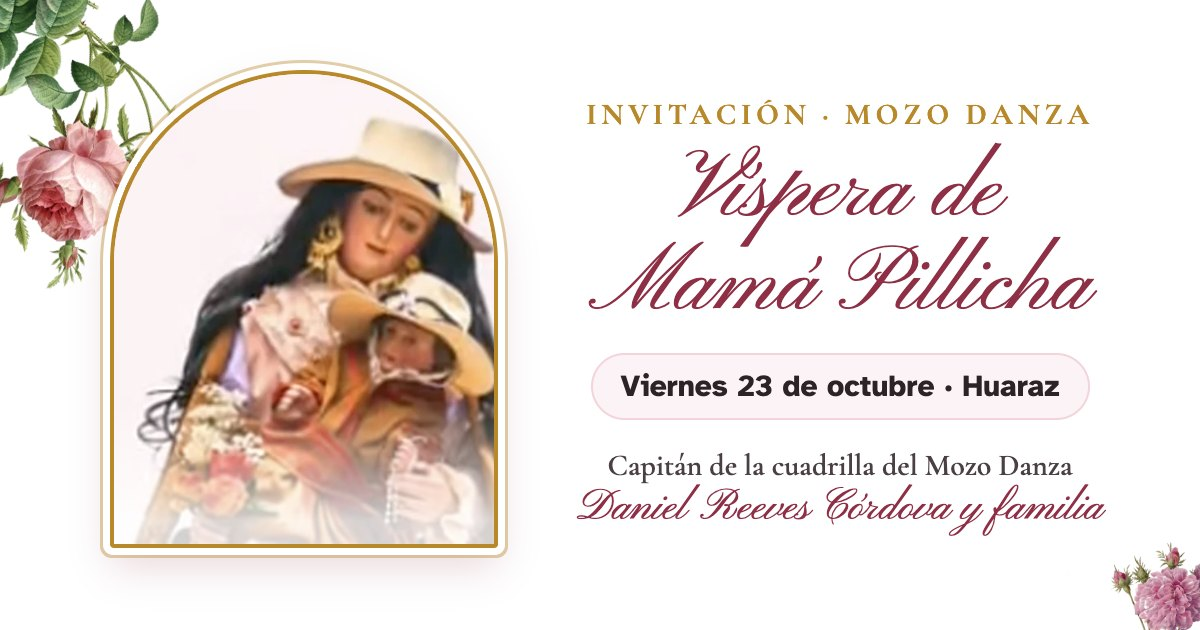
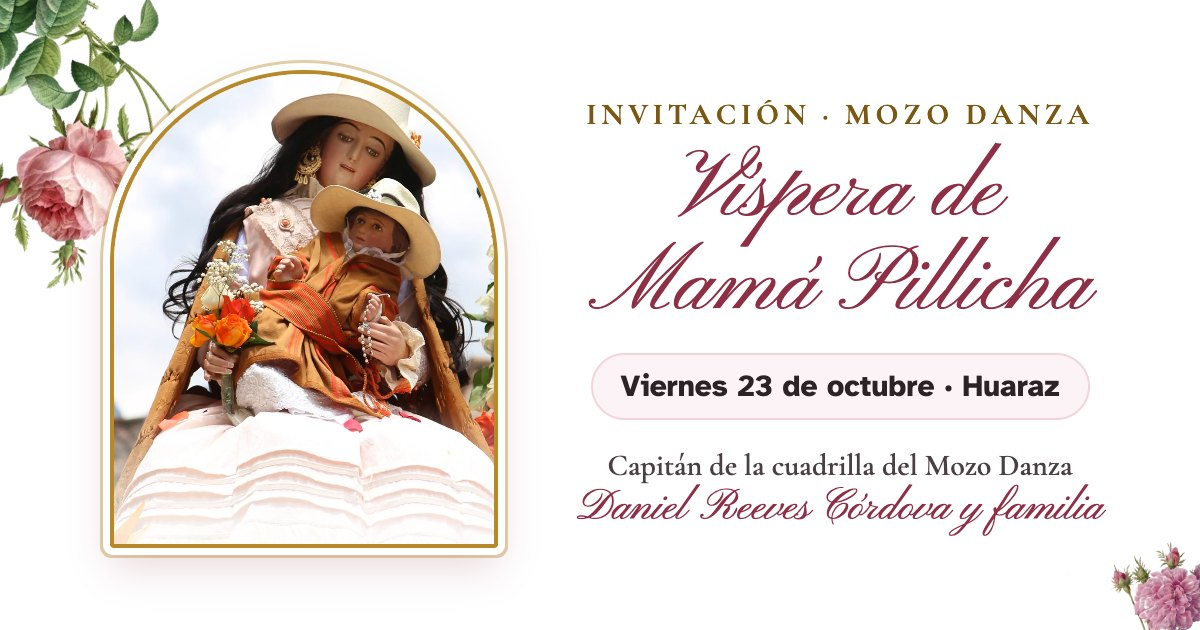
Foto oficial de la Virgen, música del Mozo Danza, contraste y flecha de lugares

Changed region(s): [[0.0925, 0.1508, 0.4317, 0.8746], [0.7092, 0.1508, 0.8942, 0.2111], [0.4933, 0.1508, 0.6783, 0.2111]]

diff --git a/styles.css b/styles.css
@@ -2,10 +2,11 @@
 :root {
   --bg: #ffffff;
   --ink: #2b2326;
-  --ink-soft: #564a4e;
+  --ink-soft: #463a3e;
   --wine: #8e2f45;
   --wine-dark: #6f2235;
   --gold: #b8892b;
+  --gold-ink: #7a5712;
   --rose: #f2d4da;
   --rose-soft: #fcf6f7;
   --wa: #1f8f4e;
@@ -71,13 +72,16 @@ a { color: var(--wine); }
   overflow: hidden; display: grid; place-items: center;
 }
 .seal img { width: 130%; max-width: none; }
-.env-kicker { font: 600 18px/1.3 var(--f-serif); letter-spacing: .2em; text-transform: uppercase; color: var(--gold); }
+.env-kicker { font: 700 18px/1.3 var(--f-serif); letter-spacing: .2em; text-transform: uppercase; color: var(--gold-ink); }
 .env-title { font: 400 48px/1.08 var(--f-script); color: var(--wine); margin: 10px 0 8px; }
 .env-sub { font: 600 21px/1.3 var(--f-serif); color: var(--ink-soft); margin-bottom: 26px; }
 body.is-open .envelope { opacity: 0; visibility: hidden; pointer-events: none; }
 body.is-open .env-rose--tl { transform: translate(-40%, -40%) rotate(130deg); opacity: 0; }
 body.is-open .env-rose--br { transform: translate(40%, 40%) rotate(10deg); opacity: 0; }
 body.is-open .env-card { transform: scale(.94) translateY(-10px); opacity: 0; }
+
+/* ---------- Música ---------- */
+.sc-hidden { position: fixed; left: 0; bottom: 0; width: 1px; height: 1px; overflow: hidden; opacity: 0; pointer-events: none; }
 
 /* ---------- Caras ---------- */
 .face { position: relative; min-height: 100svh; padding: 52px 16px 44px; display: flex; flex-direction: column; justify-content: center; overflow: hidden; }
@@ -100,11 +104,11 @@ body.skip .intro-el, body.skip .arc-text tspan, body.skip .dancer-wrap { transit
 
 .stage { position: relative; z-index: 2; width: min(100%, 440px, calc((100svh - 320px) * 400 / 492)); min-width: 300px; aspect-ratio: 400 / 492; }
 .arc-title { position: absolute; inset: 0 0 auto 0; width: 100%; height: auto; overflow: visible; z-index: 5; pointer-events: none; }
-.arc-text { font: 700 25px var(--f-serif); letter-spacing: 1.4px; fill: var(--wine); paint-order: stroke; stroke: #fff; stroke-width: 5px; stroke-linejoin: round; }
+.arc-text { font: 700 23.5px var(--f-serif); letter-spacing: 1.2px; fill: var(--wine); paint-order: stroke; stroke: #fff; stroke-width: 5px; stroke-linejoin: round; }
 .arc-text tspan { fill-opacity: 0; stroke-opacity: 0; transition: fill-opacity .5s ease, stroke-opacity .5s ease; }
 body.is-open .arc-text tspan { fill-opacity: 1; stroke-opacity: 1; }
 
-.arch { position: absolute; margin: 0; left: 9%; top: 15.5%; width: 52%; aspect-ratio: 534 / 640; transform-origin: 50% 80%; z-index: 2; }
+.arch { position: absolute; margin: 0; left: 24%; top: 18%; width: 52%; aspect-ratio: 534 / 640; transform-origin: 50% 80%; z-index: 2; }
 body:not(.is-open) .arch { transform: scale(.92) translateY(14px); }
 .arch-frame {
   position: absolute; inset: 0; overflow: hidden;
@@ -114,7 +118,7 @@ body:not(.is-open) .arch { transform: scale(.92) translateY(14px); }
   background: #fbf3f5;
 }
 .arch-frame img { width: 100%; height: 100%; object-fit: cover; object-position: 50% 20%; }
-.arch-frame::after { content: ""; position: absolute; inset: 0; background: linear-gradient(to bottom, transparent 62%, rgba(255, 255, 255, .85) 92%, #fff); }
+.arch-frame::after { content: ""; position: absolute; inset: 0; background: linear-gradient(to bottom, transparent 74%, rgba(255, 255, 255, .7) 94%, #fff); }
 .arch-glow { position: absolute; inset: -14%; background: radial-gradient(closest-side, rgba(248, 212, 106, .5), rgba(248, 212, 106, 0) 70%); opacity: 0; transition: opacity 1.6s ease 5s; }
 body.is-open .arch-glow { opacity: 1; animation: glow 5s ease-in-out 6.5s infinite; }
 body.skip .arch-glow { transition-delay: 0s; animation-delay: 0s; }
@@ -127,7 +131,7 @@ body.skip .arch-roses img { transition-delay: 0s; transition-duration: .35s; }
 /* Danzante (video fotorrealista sobre blanco) */
 .dancer-wrap {
   position: absolute; z-index: 4;
-  right: -10%; bottom: 0; width: 48%;
+  right: 0; bottom: 0; width: 40%;
   mix-blend-mode: multiply;
   aspect-ratio: 480 / 810;
   opacity: 0; transform: translateX(40%);
@@ -137,11 +141,11 @@ body.is-open .dancer-wrap { opacity: 1; transform: none; }
 .dancer-video { width: 100%; height: 100%; object-fit: contain; }
 
 .host { position: relative; z-index: 2; text-align: center; margin-top: 8px; text-wrap: balance; }
-.host-kicker { font: 600 18px/1.3 var(--f-serif); letter-spacing: .06em; text-transform: uppercase; color: var(--gold); }
+.host-kicker { font: 700 18px/1.3 var(--f-serif); letter-spacing: .06em; text-transform: uppercase; color: var(--gold-ink); }
 .host-name { font: 400 clamp(33px, 10vw, 42px)/1.15 var(--f-script); color: var(--wine); margin-top: 6px; }
 .host-family { font: 400 28px/1.1 var(--f-script); color: var(--wine); }
-.when { display: inline-block; margin-top: 14px; padding: 8px 16px; border-radius: 999px; background: var(--rose-soft); border: 1px solid var(--rose); font-size: clamp(15px, 4.4vw, 17px); }
-.countdown { margin-top: 10px; font-size: 16px; color: var(--ink-soft); }
+.when { display: inline-block; margin-top: 14px; padding: 8px 16px; border-radius: 999px; background: var(--rose-soft); border: 1px solid #e7bcc6; color: var(--ink); font-size: clamp(15px, 4.4vw, 17px); }
+.countdown { margin-top: 10px; font-size: 17px; color: var(--ink); }
 .countdown strong { color: var(--wine); }
 .scroll-hint { display: inline-flex; margin-top: 10px; color: var(--wine); }
 .scroll-hint svg { width: 30px; height: 30px; animation: nudge 1.8s ease-in-out infinite; }
@@ -159,21 +163,28 @@ body.is-open .dancer-wrap { opacity: 1; transform: none; }
 .program li { display: grid; grid-template-columns: 92px 1fr; gap: 14px; padding: 11px 0; border-top: 1px solid #efdfe3; }
 .program li:last-child { border-bottom: 1px solid #efdfe3; }
 .p-time { font: 700 19px/1.35 var(--f-sans); color: var(--wine); white-space: nowrap; }
-.p-what { font-size: 17px; line-height: 1.45; }
+.p-what { font-size: 17px; line-height: 1.45; color: var(--ink); }
 .p-what strong { font-weight: 700; }
 
 /* ---------- Cara 3 · Lugares ---------- */
-.tabs { display: grid; grid-template-columns: 1fr 1fr; gap: 8px; margin-top: 18px; padding: 5px; background: var(--rose-soft); border: 1px solid var(--rose); border-radius: 18px; }
+.tabs { display: grid; grid-template-columns: 1fr 1fr; gap: 8px; margin-top: 8px; padding: 5px; background: var(--rose-soft); border: 1px solid var(--rose); border-radius: 18px; }
 .tab {
   display: flex; flex-direction: column; align-items: center; justify-content: center; gap: 2px;
   min-height: 62px; padding: 8px 6px; border: 0; border-radius: 14px;
   background: transparent; color: var(--wine);
   font: 700 16px/1.2 var(--f-sans); cursor: pointer;
 }
-.tab small { font-weight: 400; font-size: 14px; color: var(--ink-soft); }
-.tab.is-active { background: #fff; box-shadow: 0 3px 12px rgba(142, 47, 69, .14); }
-.place { margin-top: 14px; }
-.place-addr { font-size: 17px; color: var(--ink-soft); line-height: 1.45; min-height: 3em; }
+.tab small { font-weight: 700; font-size: 14px; color: var(--ink-soft); }
+.tab-pin { width: 20px; height: 20px; margin-bottom: 2px; }
+.tab { position: relative; }
+.tab.is-active { background: var(--wine); color: #fff; box-shadow: 0 4px 14px rgba(142, 47, 69, .3); }
+.tab.is-active small { color: #fbe9ee; }
+.tab.is-active::after { content: ""; position: absolute; left: 50%; bottom: -11px; transform: translateX(-50%); border: 9px solid transparent; border-top-color: var(--wine); border-bottom: 0; }
+.tabs-hint { display: inline-flex; align-items: center; gap: 6px; margin-top: 10px; font-weight: 700; font-size: 17px; color: var(--wine); }
+.tabs-hint svg { width: 22px; height: 22px; animation: nudge 1.8s ease-in-out infinite; }
+
+.place { margin-top: 20px; }
+.place-addr { font-size: 17px; color: var(--ink); line-height: 1.45; min-height: 3em; }
 .place-addr strong { color: var(--ink); }
 .map { margin: 12px 0 14px; height: 250px; border-radius: 16px; overflow: hidden; background: #eef0f2; border: 1px solid #e6e1e3; }
 .map iframe { width: 100%; height: 100%; border: 0; display: block; }
@@ -187,7 +198,7 @@ body.is-open .dancer-wrap { opacity: 1; transform: none; }
 .reveal { opacity: 0; transform: translateY(16px); transition: opacity .8s ease, transform .8s var(--ease); }
 .reveal.in { opacity: 1; transform: none; }
 
-.footer { padding: 18px 16px 28px; text-align: center; font-size: 12.5px; color: #8a7f83; border-top: 1px solid #f3e9ec; line-height: 1.5; }
+.footer { padding: 18px 16px 28px; text-align: center; font-size: 12.5px; color: #6a5e62; border-top: 1px solid #f3e9ec; line-height: 1.5; }
 
 @media (min-width: 760px) {
   .corner--tl, .corner--tr { width: 260px; }

diff --git a/index.html b/index.html
@@ -43,6 +43,11 @@
   </div>
 
 
+  <div class="sc-hidden" aria-hidden="true">
+    <iframe id="scPlayer" title="Tonada de víspera del Mozo Danza de San Marcos" width="320" height="120" tabindex="-1" allow="autoplay; encrypted-media" frameborder="no"
+      src="https://w.soundcloud.com/player/?url=https%3A%2F%2Fapi.soundcloud.com%2Ftracks%2F1126123102&auto_play=false&visual=false&hide_related=true&show_comments=false&show_teaser=false"></iframe>
+  </div>
+
   <main id="main">
 
     <!-- ===== Cara 1 · Portada ===== -->
@@ -53,14 +58,14 @@
 
       <div class="stage">
         <svg class="arc-title" viewBox="0 0 400 270" role="img" aria-label="Festividad en honor a Mamá Pillicha">
-          <defs><path id="arcPath" d="M38,250 A170,170 0 1 1 362,250"/></defs>
+          <defs><path id="arcPath" d="M24,206 A176,176 0 0 1 376,206"/></defs>
           <text class="arc-text"><textPath href="#arcPath" startOffset="50%" text-anchor="middle" id="arcTextPath">FESTIVIDAD EN HONOR A MAMÁ PILLICHA</textPath></text>
         </svg>
 
         <figure class="arch intro-el" style="--d:4s">
           <div class="arch-glow" aria-hidden="true"></div>
           <div class="arch-frame">
-            <img src="assets/img/mama-pillicha.webp" alt="Imagen de la Virgen Peregrina, Mamá Pillicha, con el Niño, ambos con sombrero" width="534" height="576">
+            <img src="assets/img/mama-pillicha.webp" alt="Imagen de la Virgen Peregrina, Mamá Pillicha, con el Niño, ambos con sombrero, en su arco de rosas" width="900" height="1078">
           </div>
           <div class="arch-roses" aria-hidden="true" id="archRoses"></div>
         </figure>
@@ -111,12 +116,18 @@
       <img class="corner corner--br" src="assets/img/rosa-agatha.webp" alt="" aria-hidden="true">
       <div class="face-inner">
         <h2 class="face-title">¿Dónde?</h2>
+        <p class="tabs-hint">
+          <svg viewBox="0 0 24 24" aria-hidden="true"><path d="M12 4v14M6 12l6 6 6-6" fill="none" stroke="currentColor" stroke-width="2.4" stroke-linecap="round" stroke-linejoin="round"/></svg>
+          Toque un lugar para ver su mapa
+        </p>
 
         <div class="tabs" role="tablist" aria-label="Lugares">
           <button class="tab is-active" role="tab" aria-selected="true" data-place="casa" type="button">
+            <svg class="tab-pin" viewBox="0 0 24 24" aria-hidden="true"><path d="M12 22s7-6.5 7-12a7 7 0 1 0-14 0c0 5.5 7 12 7 12z" fill="none" stroke="currentColor" stroke-width="2.2"/><circle cx="12" cy="10" r="2.6" fill="currentColor"/></svg>
             Casa del capitán<small>12:30 pm · 6:00 pm</small>
           </button>
           <button class="tab" role="tab" aria-selected="false" data-place="sagrario" type="button">
+            <svg class="tab-pin" viewBox="0 0 24 24" aria-hidden="true"><path d="M12 22s7-6.5 7-12a7 7 0 1 0-14 0c0 5.5 7 12 7 12z" fill="none" stroke="currentColor" stroke-width="2.2"/><circle cx="12" cy="10" r="2.6" fill="currentColor"/></svg>
             Sagrario San Sebastián<small>7:00 pm</small>
           </button>
         </div>
@@ -141,9 +152,10 @@
   </main>
 
   <footer class="footer">
-    Rosas: P.-J. Redouté (dominio público) · Hecho por Vehemente
+    Foto de Mamá Pillicha: Ministerio de Cultura del Perú · Música: «Víspera», Mozo Danza de San Marcos, pincullo y caja de Martín Rafael Rivera Blas (Archivo Sonoro DPI – Ministerio de Cultura) · Rosas: P.-J. Redouté (dominio público) · Hecho por Vehemente
   </footer>
 
+  <script src="https://w.soundcloud.com/player/api.js"></script>
   <script src="app.js" defer></script>
 </body>
 </html>

diff --git a/app.js b/app.js
@@ -41,12 +41,12 @@
   /* ---------- Arco de rosas alrededor de la Virgen (4.2 s → 6 s) ---------- */
   var roses = document.getElementById("archRoses");
   var spots = [];
-  [92, 72, 53].forEach(function (y) { spots.push([-5, y]); });
+  [90, 72, 54].forEach(function (y) { spots.push([-2, y]); });
   [165, 135, 105, 75, 45, 15].forEach(function (deg) {
     var r = deg * Math.PI / 180;
-    spots.push([50 + 53 * Math.cos(r), 42 - 45 * Math.sin(r)]);
+    spots.push([50 + 50 * Math.cos(r), 42 - 41 * Math.sin(r)]);
   });
-  [53, 72].forEach(function (y) { spots.push([105, y]); });
+  [54, 72].forEach(function (y) { spots.push([102, y]); });
   [14, 38, 62, 86].forEach(function (x) { spots.push([x, 101]); });
   spots.forEach(function (p, idx) {
     var img = new Image();
@@ -56,7 +56,7 @@
     img.decoding = "async";
     img.style.setProperty("--x", p[0] + "%");
     img.style.setProperty("--y", p[1] + "%");
-    img.style.setProperty("--s", (big ? 18 + (idx * 7) % 4 : 13 + (idx * 5) % 3) + "%");
+    img.style.setProperty("--s", (big ? 16 + (idx * 7) % 3 : 12 + (idx * 5) % 3) + "%");
     img.style.setProperty("--r", ((idx * 47) % 60 - 30) + "deg");
     img.style.setProperty("--rd", (4.2 + idx * 0.09).toFixed(2) + "s");
     roses.appendChild(img);
@@ -75,6 +75,7 @@
     body.classList.add("is-open");
     body.classList.remove("locked");
     playVideo();
+    startMusic();
     if (!reduceMotion) timers.push(setTimeout(startPetals, 4500));
     timers.push(setTimeout(finishIntro, reduceMotion ? 0 : INTRO_MS));
     window.scrollTo(0, 0);
@@ -242,6 +243,36 @@
     }, { rootMargin: "500px 0px" });
     mo.observe(mapBox);
   } else { enableMap(); }
+
+  /* ---------- Música de fondo: tonada «Víspera» del Mozo Danza, siempre encendida ---------- */
+  var widget = null, widgetReady = false, wantMusic = false, playing = false;
+  if (window.SC && window.SC.Widget) {
+    widget = window.SC.Widget(document.getElementById("scPlayer"));
+    widget.bind(window.SC.Widget.Events.READY, function () {
+      widgetReady = true;
+      widget.setVolume(45);
+      if (wantMusic) widget.play();
+    });
+    widget.bind(window.SC.Widget.Events.PLAY, function () { playing = true; });
+    widget.bind(window.SC.Widget.Events.PAUSE, function () { playing = false; });
+    widget.bind(window.SC.Widget.Events.FINISH, function () { widget.seekTo(0); widget.play(); });
+  }
+  // El navegador solo deja sonar audio después de un toque: se arranca al abrir la invitación
+  // y, si no alcanzó, con cualquier toque siguiente.
+  function startMusic() {
+    if (!widget) return;
+    wantMusic = true;
+    if (widgetReady) widget.play();
+  }
+  // Primer toque en cualquier parte (también en el sobre) = la música empieza.
+  document.addEventListener("pointerdown", function () {
+    wantMusic = true;
+    if (widgetReady && !playing) widget.play();
+  });
+  document.addEventListener("visibilitychange", function () {
+    if (!widget || !wantMusic) return;
+    if (document.hidden) widget.pause(); else widget.play();
+  });
 
   /* ---------- Compartir ---------- */
   var local = /^(localhost|127\.0\.0\.1)$/.test(location.hostname) || !/^https?:/.test(location.protocol);
